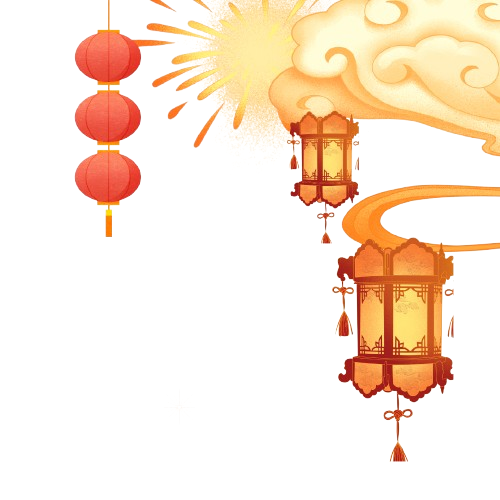
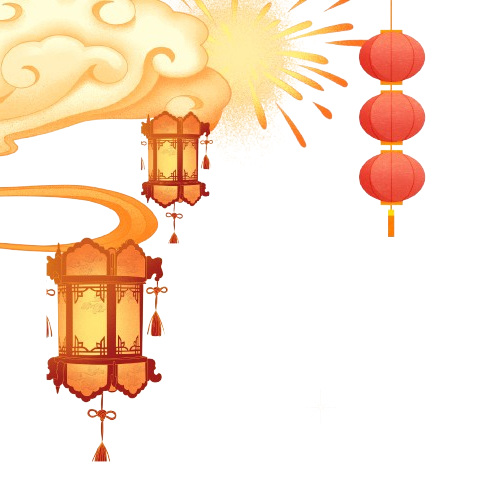
Add files via upload

diff --git a/style.css b/style.css
@@ -34,41 +34,70 @@ body {
 }
 .img-left {
     left: 0; 
-    top: 0%; 
+    top: 50%; 
     transform: translateY(-50%); 
-    height: 500px;
+    height: 450px;
     animation: floatTop 3s ease-in-out infinite;
 
 }
 /* ảnh 2026 */
 .img-left-bottom {
     left: 0; 
-    top: 65%; /* Vị trí đặt ảnh thấp xuống bên dưới */
+    top: 0%; /* Vị trí đặt ảnh thấp xuống bên dưới */
     transform: translateY(-50%); 
-    height: 250px; /* Bạn có thể chỉnh chiều cao ảnh tùy ý tại đây */
-    animation: floatTop 3s ease-in-out infinite; /* Giữ nguyên hiệu ứng bay nhẹ */
+    height: 450px; /* Bạn có thể chỉnh chiều cao ảnh tùy ý tại đây */
+animation: floatTop 3s ease-in-out infinite;
+
 }
 .img-right {
     right: 0; 
-    top: 55%; 
+    top: 50%; 
     transform: translateY(-50%);
-    height: 400px; /* Tăng giảm số này tùy ý */
+    height: 450px; /* Tăng giảm số này tùy ý */
     animation: floatTop 3s ease-in-out infinite;
 }
 .img-top-right {
-    top: 0;
+    top: 10%;
     right: 0; 
-    height: 400px; 
+    height: 200px; 
+    width: auto;
+    z-index: 1500; 
+}
+.img-top2-right {
+    top: 0%;
+    right: 0; 
+    height:800px; 
     width: auto;
     z-index: 1500; 
     animation: floatTop 3s ease-in-out infinite;
+
 }
 @keyframes floatTop { 0%, 100% { transform: translateY(0); } 50% { transform: translateY(-10px); } }
-
-
+/*
+#btnSpinMain {
+    position: fixed; bottom: 70px; left: 200px;
+    padding: 15px 50px;
+    background: linear-gradient(to bottom, #ff3333, #b30000);
+    border: 2px solid var(--primary-gold); border-radius: 50px;
+    color: var(--primary-gold); font-family: var(--font-tech); font-size: 24px; font-weight: 800;
+    cursor: pointer; box-shadow: 0 0 30px rgba(255, 0, 0, 0.8); z-index: 100;
+    transition: 0.2s;
+    animation: floatTop 3s ease-in-out infinite;
+     filter: drop-shadow(0 0 5px #ffd700);
+}*/
 /* --- 2. UI CƠ BẢN --- */
-.brand-container { position: fixed; top: 20px; left: 20px; z-index: 100; }
-#topLogo { height: 70px; width: auto; filter: drop-shadow(0 0 5px #ffd700); }
+.brand-container { 
+    position: fixed; 
+    top: 20px; 
+    left: 20px; /* <-- ĐÃ SỬA: Thay 20px thành 200px */
+    z-index: 100; 
+}
+#topLogo { 
+    height: 50px; /* Mình để 70px cho rõ, bạn thích nhỏ thì sửa thành 40px */
+    width: auto;
+    filter: drop-shadow(0 0 5px #ffd700);
+    
+ }
 
 #btnSettings {
     position: fixed; top: 20px; right: 20px; z-index: 2000;
@@ -131,6 +160,7 @@ body {
     display: flex; justify-content: center; align-items: center;
     transform-style: preserve-3d; cursor: pointer;
     margin-top: 0px; 
+    margin-left: -130px;
     transition: transform 0.5s cubic-bezier(0.175, 0.885, 0.32, 1.275);
 }
 .sphere-container:hover { transform: scale(1.15) rotateX(5deg); }
@@ -141,7 +171,7 @@ body {
     opacity: 0.9;
     z-index: 0; pointer-events: none; 
     filter: drop-shadow(0 0 30px #ff0000);
-    left: 60%; 
+    left: 58%; 
     top: 50%;
     transform: translate(-50%, -50%);
     
@@ -163,14 +193,13 @@ body {
 
 /* NÚT QUAY */
 #btnSpinMain {
-    position: fixed; bottom: 70px; left: 200px;
+    position: fixed; bottom: 50px; left: 100px;
     padding: 15px 50px;
     background: linear-gradient(to bottom, #ff3333, #b30000);
     border: 2px solid var(--primary-gold); border-radius: 50px;
     color: var(--primary-gold); font-family: var(--font-tech); font-size: 24px; font-weight: 800;
     cursor: pointer; box-shadow: 0 0 30px rgba(255, 0, 0, 0.8); z-index: 100;
     transition: 0.2s;
-    animation: floatTop 3s ease-in-out infinite;
 }
 #btnSpinMain:hover:not(:disabled) { transform: scale(1.05); background: #fff; color: #b30000; box-shadow: 0 0 50px #fff; }
 #btnSpinMain:disabled { background: #333; border-color: #555; color: #777; box-shadow: none; cursor: not-allowed; }

diff --git a/index.html b/index.html
@@ -13,9 +13,10 @@
 <body>
 
     <img src="anh1.png" class="decor-img side-img img-left" alt="Decor Left">
-    <img src="anh4.png" class="decor-img side-img img-left-bottom" alt="Decor Left Bottom">
+    <img src="anh3.png" class="decor-img side-img img-left-bottom" alt="Decor Left Bottom">
     <img src="anh2.png" class="decor-img side-img img-right" alt="Decor Right">
-    <img src="anh3.png" class="decor-img img-top-right" alt="Decor Top Right">
+    <img src="anh5.png" class="decor-img img-top2-right" alt="Decor Top Right">
+    <img src="anh4.png" class="decor-img img-top-right" alt="Decor Top Right">
 
     <div class="brand-container">
         <img src="logo2.png" alt="Company Brand" id="topLogo">
